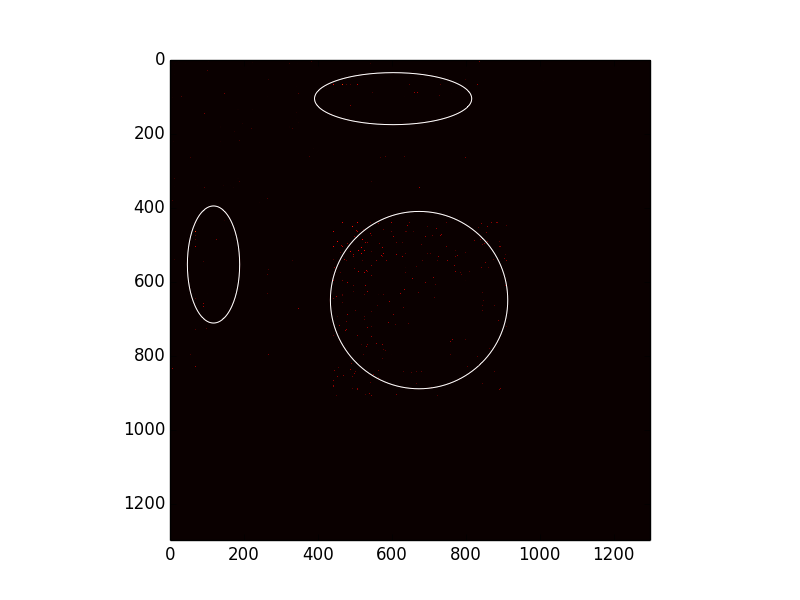
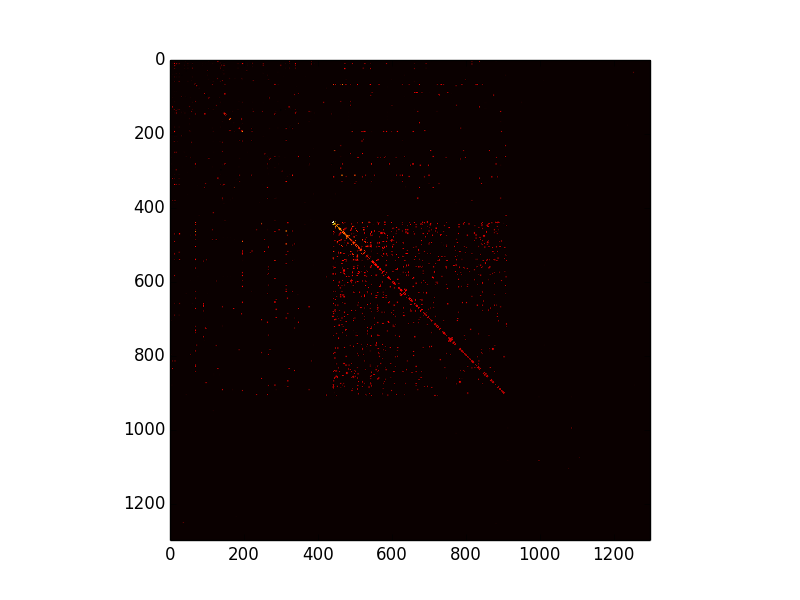
redraw figures

diff --git a/code/resxres.py b/code/resxres.py
@@ -1,6 +1,6 @@
 import matplotlib.pyplot as plt
 import numpy as np
-
+import math
 
 
 confs = ["kdd", "icml", "vldb"]
@@ -35,9 +35,13 @@ for conf in confs:
 				break
 			words = line.split(",")
 			if authorlist.count(words[0]) > 0 and authorlist.count(words[1]) > 0:
-				table[authorlist.index(words[0])][authorlist.index(words[1])] = float(words[2])
+				for x in range(-1, 2):
+					for y in range (-1, 2):
+						if (authorlist.index(words[0])+x >= 0) and (authorlist.index(words[0])+x < n):
+							if (authorlist.index(words[1])+y >= 0) and (authorlist.index(words[1])+y < n):
+								table[authorlist.index(words[0])+x][authorlist.index(words[1])+y] = math.log(float(words[2])+1)
 	plt.clf()
-	plt.imshow(table, cmap='hot', interpolation='nearest')
+	plt.imshow(table, cmap='hot', interpolation='lanczos')
 	plt.savefig("../figures/" + conf + "heat.png")
 	plt.show()
 
